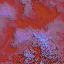
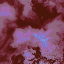
art: tune folded warp depth

diff --git a/internal/sketch/warp/warp_test.go b/internal/sketch/warp/warp_test.go
@@ -240,11 +240,11 @@ func TestMaterialHeightCreatesCavitiesBodiesAndRidges(t *testing.T) {
 	q10 := heights[len(heights)/10]
 	q50 := heights[len(heights)/2]
 	q90 := heights[len(heights)*9/10]
-	if q10 >= 0.3 || q50 <= 0.3 || q50 >= 0.72 || q90 <= 0.7 {
-		t.Fatalf("material quantiles do not separate cavities/body/ridges: q10=%v q50=%v q90=%v", q10, q50, q90)
-	}
-	if q50-q10 < 0.18 || q90-q50 < 0.16 {
+	if q50-q10 < 0.18 || q90-q50 < 0.18 {
 		t.Fatalf("material quantile spread is too flat: q10=%v q50=%v q90=%v", q10, q50, q90)
+	}
+	if q10 <= 0.01 || q90 >= 0.99 {
+		t.Fatalf("material quantiles are mostly clipped: q10=%v q90=%v", q10, q90)
 	}
 }
 
@@ -394,10 +394,10 @@ func TestFoldedAppearanceHasGreaterLuminanceRange(t *testing.T) {
 	sort.Float64s(gradientValues)
 	sort.Float64s(foldedValues)
 	robustRange := func(values []float64) float64 {
-		return values[len(values)*19/20] - values[len(values)/20]
+		return values[len(values)*99/100] - values[len(values)/100]
 	}
 	gradientRange, foldedRange := robustRange(gradientValues), robustRange(foldedValues)
-	if foldedRange <= gradientRange*1.12 {
+	if foldedRange <= gradientRange*1.08 {
 		t.Fatalf("folded luminance range %v is not materially above gradient %v", foldedRange, gradientRange)
 	}
 	if float64(clipped)/float64(len(foldedValues)) > 0.08 {

diff --git a/internal/sketch/warp/warp.go b/internal/sketch/warp/warp.go
@@ -25,7 +25,9 @@ const (
 	rRoleScale    = 1.17
 	valueScale    = 1.31
 	normalEpsilon = 0.0038
-	materialDepth = 0.082
+	materialDepth = 0.012
+	ridgeStrength = 0.13
+	ridgeColorMix = 0.24
 )
 
 type mode uint8
@@ -171,7 +173,7 @@ func material(raw, fine, activity float64) materialSample {
 	activityGate := mathx.Smoothstep(0.28, 1.08, activity)
 	fold := 1 - math.Abs(fine)*2.35
 	ridge := mathx.Smoothstep(0.68, 0.96, fold) * activityGate
-	height := mathx.Clamp01(body*0.86 + ridge*0.34)
+	height := mathx.Clamp01(body*0.86 + ridge*ridgeStrength)
 	return materialSample{height: height, ridge: ridge}
 }
 
@@ -224,8 +226,9 @@ func (p plan) At(u, v float64) palette.Color {
 	if p.set.appearance == appearanceGradient {
 		return color.Clamp()
 	}
-	color = palette.Lerp(color, p.ridgeColor, sample.ridge*0.18)
-	return shadeLinear(color, lightFactor(p.materialNormal(u, v)))
+	color = palette.Lerp(color, p.ridgeColor, sample.ridge*ridgeColorMix)
+	cavityFactor := 0.18 + 0.82*mathx.Smoothstep(0.08, 0.48, sample.height)
+	return shadeLinear(color, cavityFactor*lightFactor(p.materialNormal(u, v)))
 }
 
 // Render implements sketch.Sketch.

diff --git a/docs/sketches/013-warp.md b/docs/sketches/013-warp.md
@@ -57,7 +57,8 @@ luminance.
   through a dark-middle-light HSL ramp.
 - `folded` is the default artwork. Material height maps darkest palette color
   to cavities, a middle color to the body, and the lightest suitable color to
-  raised ridges. Ridge color is mixed sparingly so value structure leads hue.
+  raised ridges. Low height continuously attenuates cavity color in linear
+  light, while ridge color is mixed sparingly, so value structure leads hue.
 
 `structure` was an unintegrated experiment name and is removed rather than kept
 as an alias.
